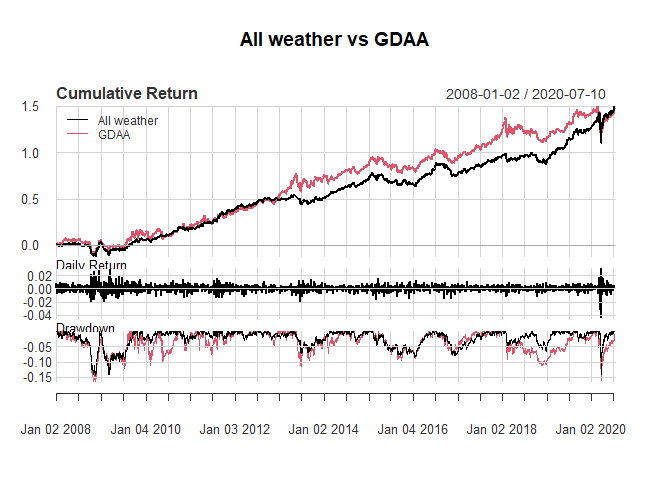
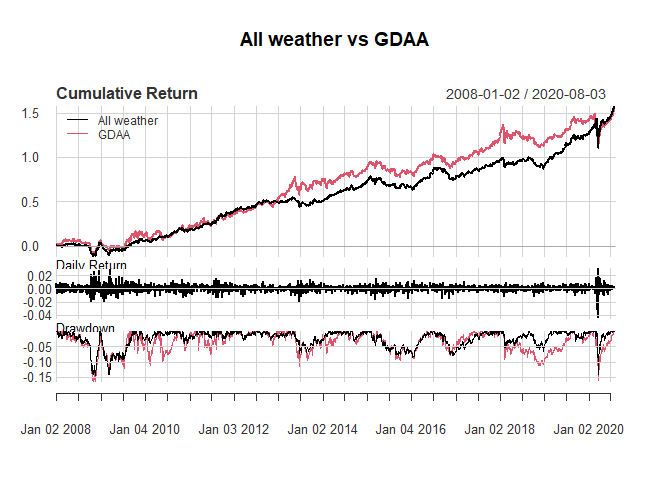
updates

diff --git a/all_weather.md b/all_weather.md
@@ -84,7 +84,7 @@ names(Port_all_net) = 'Returns_allweather'
 
 |             | Cummulative\_return | Annualized\_return | Max\_drawdown | Annualized\_std |
 | ----------- | ------------------: | -----------------: | ------------: | --------------: |
-| All Weather |            1.500165 |          0.0761437 |       0.14482 |       0.0760562 |
+| All Weather |            1.577286 |          0.0781796 |     0.1448201 |        0.075914 |
 
 Table1: Summarization(All weather
 
@@ -217,7 +217,6 @@ names(Port_gdaa_net) = 'Returns_gdaa'
 
 |            |       VTI |       IEV |       EWJ | EEM |       TLT | IEF |       IYR |       RWX |       GLD |       DBC |
 | ---------- | --------: | --------: | --------: | --: | --------: | --: | --------: | --------: | --------: | --------: |
-| 2017-08-31 | 0.3000000 | 0.1000000 | 0.2000000 | 0.1 | 0.0000000 | 0.0 | 0.0000000 | 0.0000000 | 0.3000000 | 0.0000000 |
 | 2017-09-29 | 0.3000000 | 0.1000000 | 0.3000000 | 0.1 | 0.0000000 | 0.0 | 0.0000000 | 0.2000000 | 0.0000000 | 0.0000000 |
 | 2017-10-31 | 0.3000000 | 0.1058332 | 0.3000000 | 0.1 | 0.0000000 | 0.0 | 0.0000000 | 0.0000000 | 0.0000000 | 0.1941668 |
 | 2017-11-30 | 0.3000000 | 0.1012613 | 0.2915770 | 0.1 | 0.0000000 | 0.0 | 0.0000000 | 0.0000000 | 0.0000000 | 0.2071617 |
@@ -229,30 +228,31 @@ names(Port_gdaa_net) = 'Returns_gdaa'
 | 2018-05-31 | 0.1338967 | 0.0000000 | 0.1661033 | 0.1 | 0.0000000 | 0.0 | 0.0000000 | 0.3000000 | 0.0000000 | 0.3000000 |
 | 2018-06-29 | 0.1000000 | 0.0000000 | 0.1000000 | 0.0 | 0.0000000 | 0.0 | 0.2037792 | 0.2962208 | 0.0000000 | 0.3000000 |
 | 2018-07-31 | 0.1000000 | 0.1000000 | 0.0000000 | 0.0 | 0.0000000 | 0.0 | 0.2507956 | 0.2492044 | 0.0000000 | 0.3000000 |
-| 2018-08-31 | 0.1641876 | 0.0000000 | 0.0000000 | 0.0 | 0.3000000 | 0.0 | 0.1000000 | 0.2112468 | 0.0000000 | 0.2245655 |
-| 2018-09-28 | 0.1057658 | 0.0000000 | 0.1000000 | 0.0 | 0.0000000 | 0.3 | 0.2192041 | 0.0000000 | 0.0000000 | 0.2750301 |
-| 2018-10-31 | 0.1420543 | 0.0000000 | 0.0000000 | 0.0 | 0.0000000 | 0.3 | 0.1360428 | 0.0000000 | 0.3000000 | 0.1219029 |
-| 2018-11-30 | 0.1396584 | 0.0000000 | 0.0000000 | 0.0 | 0.1964447 | 0.3 | 0.1000000 | 0.0000000 | 0.2638968 | 0.0000000 |
-| 2018-12-31 | 0.0000000 | 0.0000000 | 0.0000000 | 0.0 | 0.2027641 | 0.3 | 0.1000000 | 0.1372323 | 0.2600036 | 0.0000000 |
-| 2019-01-31 | 0.0000000 | 0.0000000 | 0.0000000 | 0.0 | 0.2083369 | 0.3 | 0.1000000 | 0.1447301 | 0.2469331 | 0.0000000 |
-| 2019-02-28 | 0.1418585 | 0.0000000 | 0.0000000 | 0.0 | 0.2200922 | 0.3 | 0.1000000 | 0.0000000 | 0.2380493 | 0.0000000 |
+| 2018-08-31 | 0.1641874 | 0.0000000 | 0.0000000 | 0.0 | 0.3000000 | 0.0 | 0.1000000 | 0.2112474 | 0.0000000 | 0.2245652 |
+| 2018-09-28 | 0.1057656 | 0.0000000 | 0.1000000 | 0.0 | 0.0000000 | 0.3 | 0.2192042 | 0.0000000 | 0.0000000 | 0.2750302 |
+| 2018-10-31 | 0.1420544 | 0.0000000 | 0.0000000 | 0.0 | 0.0000000 | 0.3 | 0.1360425 | 0.0000000 | 0.3000000 | 0.1219031 |
+| 2018-11-30 | 0.1396586 | 0.0000000 | 0.0000000 | 0.0 | 0.1964451 | 0.3 | 0.1000000 | 0.0000000 | 0.2638963 | 0.0000000 |
+| 2018-12-31 | 0.0000000 | 0.0000000 | 0.0000000 | 0.0 | 0.2027647 | 0.3 | 0.1000000 | 0.1372327 | 0.2600026 | 0.0000000 |
+| 2019-01-31 | 0.0000000 | 0.0000000 | 0.0000000 | 0.0 | 0.2083378 | 0.3 | 0.1000000 | 0.1447301 | 0.2469321 | 0.0000000 |
+| 2019-02-28 | 0.1418585 | 0.0000000 | 0.0000000 | 0.0 | 0.2200931 | 0.3 | 0.1000000 | 0.0000000 | 0.2380485 | 0.0000000 |
 | 2019-03-29 | 0.1000000 | 0.0000000 | 0.0000000 | 0.0 | 0.3000000 | 0.3 | 0.1000000 | 0.2000000 | 0.0000000 | 0.0000000 |
-| 2019-04-30 | 0.1972992 | 0.0000000 | 0.0000000 | 0.1 | 0.3000000 | 0.3 | 0.1027008 | 0.0000000 | 0.0000000 | 0.0000000 |
-| 2019-05-31 | 0.0000000 | 0.0000000 | 0.0000000 | 0.0 | 0.2172962 | 0.3 | 0.1000000 | 0.2200059 | 0.1626979 | 0.0000000 |
-| 2019-06-28 | 0.1681038 | 0.0000000 | 0.0000000 | 0.0 | 0.2448236 | 0.3 | 0.1000000 | 0.0000000 | 0.1870726 | 0.0000000 |
-| 2019-07-31 | 0.1801248 | 0.0000000 | 0.0000000 | 0.0 | 0.2782811 | 0.3 | 0.1000000 | 0.0000000 | 0.1415941 | 0.0000000 |
-| 2019-08-30 | 0.1974382 | 0.0000000 | 0.0000000 | 0.0 | 0.2559454 | 0.3 | 0.1000000 | 0.0000000 | 0.1466164 | 0.0000000 |
-| 2019-09-30 | 0.2165917 | 0.0000000 | 0.0000000 | 0.0 | 0.2409689 | 0.3 | 0.1000000 | 0.0000000 | 0.1424395 | 0.0000000 |
-| 2019-10-31 | 0.0000000 | 0.0000000 | 0.1661671 | 0.0 | 0.3000000 | 0.0 | 0.1000000 | 0.2782457 | 0.1555872 | 0.0000000 |
-| 2019-11-29 | 0.1665983 | 0.0000000 | 0.1979524 | 0.0 | 0.3000000 | 0.0 | 0.1000000 | 0.0000000 | 0.2354493 | 0.0000000 |
+| 2019-04-30 | 0.1972995 | 0.0000000 | 0.0000000 | 0.1 | 0.3000000 | 0.3 | 0.1027005 | 0.0000000 | 0.0000000 | 0.0000000 |
+| 2019-05-31 | 0.0000000 | 0.0000000 | 0.0000000 | 0.0 | 0.2172960 | 0.3 | 0.1000000 | 0.2200062 | 0.1626979 | 0.0000000 |
+| 2019-06-28 | 0.1681038 | 0.0000000 | 0.0000000 | 0.0 | 0.2448240 | 0.3 | 0.1000000 | 0.0000000 | 0.1870722 | 0.0000000 |
+| 2019-07-31 | 0.1801248 | 0.0000000 | 0.0000000 | 0.0 | 0.2782815 | 0.3 | 0.1000000 | 0.0000000 | 0.1415938 | 0.0000000 |
+| 2019-08-30 | 0.1974382 | 0.0000000 | 0.0000000 | 0.0 | 0.2559459 | 0.3 | 0.1000000 | 0.0000000 | 0.1466159 | 0.0000000 |
+| 2019-09-30 | 0.2165917 | 0.0000000 | 0.0000000 | 0.0 | 0.2409690 | 0.3 | 0.1000000 | 0.0000000 | 0.1424393 | 0.0000000 |
+| 2019-10-31 | 0.0000000 | 0.0000000 | 0.1661671 | 0.0 | 0.3000000 | 0.0 | 0.1000000 | 0.2782458 | 0.1555871 | 0.0000000 |
+| 2019-11-29 | 0.1665992 | 0.0000000 | 0.1979515 | 0.0 | 0.3000000 | 0.0 | 0.1000000 | 0.0000000 | 0.2354493 | 0.0000000 |
 | 2019-12-31 | 0.1000000 | 0.1035459 | 0.2542423 | 0.0 | 0.0000000 | 0.0 | 0.2422119 | 0.0000000 | 0.3000000 | 0.0000000 |
-| 2020-01-31 | 0.2916099 | 0.1368043 | 0.0000000 | 0.0 | 0.3000000 | 0.0 | 0.1000000 | 0.0000000 | 0.1715858 | 0.0000000 |
-| 2020-02-28 | 0.3000000 | 0.0000000 | 0.0000000 | 0.0 | 0.1954129 | 0.3 | 0.1000000 | 0.0000000 | 0.1045871 | 0.0000000 |
-| 2020-03-31 | 0.1000000 | 0.0000000 | 0.2046344 | 0.0 | 0.2096469 | 0.3 | 0.0000000 | 0.0000000 | 0.1857187 | 0.0000000 |
-| 2020-04-30 | 0.1000000 | 0.0000000 | 0.1835565 | 0.0 | 0.2304618 | 0.3 | 0.0000000 | 0.0000000 | 0.1859817 | 0.0000000 |
-| 2020-05-29 | 0.1000000 | 0.0000000 | 0.1863173 | 0.0 | 0.2307676 | 0.3 | 0.0000000 | 0.0000000 | 0.1829151 | 0.0000000 |
-| 2020-06-30 | 0.1279612 | 0.0000000 | 0.0000000 | 0.1 | 0.2465920 | 0.3 | 0.0000000 | 0.0000000 | 0.2254468 | 0.0000000 |
-| 2020-07-10 | 0.1206065 | 0.0000000 | 0.0000000 | 0.1 | 0.2364305 | 0.3 | 0.0000000 | 0.0000000 | 0.2429630 | 0.0000000 |
+| 2020-01-31 | 0.2916099 | 0.1368042 | 0.0000000 | 0.0 | 0.3000000 | 0.0 | 0.1000000 | 0.0000000 | 0.1715858 | 0.0000000 |
+| 2020-02-28 | 0.3000000 | 0.0000000 | 0.0000000 | 0.0 | 0.1954126 | 0.3 | 0.1000000 | 0.0000000 | 0.1045874 | 0.0000000 |
+| 2020-03-31 | 0.1000000 | 0.0000000 | 0.2046343 | 0.0 | 0.2096467 | 0.3 | 0.0000000 | 0.0000000 | 0.1857190 | 0.0000000 |
+| 2020-04-30 | 0.1000000 | 0.0000000 | 0.1835563 | 0.0 | 0.2304617 | 0.3 | 0.0000000 | 0.0000000 | 0.1859820 | 0.0000000 |
+| 2020-05-29 | 0.1000000 | 0.0000000 | 0.1863172 | 0.0 | 0.2307675 | 0.3 | 0.0000000 | 0.0000000 | 0.1829153 | 0.0000000 |
+| 2020-06-30 | 0.1279611 | 0.0000000 | 0.0000000 | 0.1 | 0.2465919 | 0.3 | 0.0000000 | 0.0000000 | 0.2254471 | 0.0000000 |
+| 2020-07-31 | 0.1231860 | 0.0000000 | 0.0000000 | 0.1 | 0.2442057 | 0.3 | 0.0000000 | 0.0000000 | 0.2326083 | 0.0000000 |
+| 2020-08-03 | 0.1125997 | 0.0000000 | 0.0000000 | 0.1 | 0.2399729 | 0.3 | 0.0000000 | 0.0000000 | 0.2474273 | 0.0000000 |
 
 Table2: Weights
 
@@ -260,7 +260,7 @@ Table2: Weights
 
 |      | Cummulative\_return | Annualized\_return | Max\_drawdown | Annualized\_std |
 | ---- | ------------------: | -----------------: | ------------: | --------------: |
-| GDAA |            1.466815 |          0.0778441 |     0.1631826 |       0.1063875 |
+| GDAA |             1.55309 |          0.0801913 |     0.1631829 |        0.106173 |
 
 Table3: Summarization(GDAA)
 
@@ -280,5 +280,5 @@ charts.PerformanceSummary(portfolios, main = 'All weather vs GDAA')
 
 |             | Annualized\_return | Cummulative\_return | Max\_drawdown | Annualized\_std |
 | ----------- | -----------------: | ------------------: | ------------: | --------------: |
-| All Weather |          0.0761437 |            1.500165 |     0.1448200 |       0.0760562 |
-| GDAA        |          0.0778441 |            1.466815 |     0.1631826 |       0.1063875 |
+| All Weather |          0.0781796 |            1.577286 |     0.1448201 |        0.075914 |
+| GDAA        |          0.0801913 |            1.553090 |     0.1631829 |        0.106173 |
